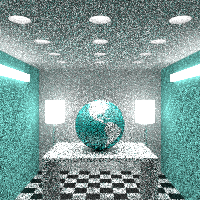
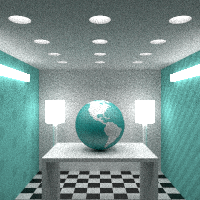
tiffany: use bidirectional path tracing
This example has so much less variance with bidirectional path tracing.
I'm guessing the inset lights were a huge source of variance before.

diff --git a/examples/renderings/tiffany/lights.go b/examples/renderings/tiffany/lights.go
@@ -2,6 +2,7 @@ package main
 
 import (
 	"math"
+	"math/rand"
 
 	"github.com/unixpickle/model3d/model3d"
 	"github.com/unixpickle/model3d/render3d"
@@ -16,10 +17,18 @@ const (
 	WallLightBrightness = 5.0
 )
 
-func CreateLamp() render3d.Object {
-	var res render3d.JoinedObject
+func CreateLamp() render3d.AreaLight {
+	var lights []render3d.AreaLight
 	for _, x := range []float64{-4, 4} {
-		res = append(res,
+		light := render3d.NewCylinderAreaLight(&model3d.Cylinder{
+			P1:     model3d.Coord3D{X: x, Y: 6, Z: 0},
+			P2:     model3d.Coord3D{X: x, Y: 6, Z: 2},
+			Radius: 0.8,
+		}, render3d.NewColor(LampBrightness))
+
+		fullLamp := render3d.JoinedObject{
+			light,
+
 			// Base
 			&render3d.ColliderObject{
 				Collider: &model3d.Cylinder{
@@ -33,6 +42,7 @@ func CreateLamp() render3d.Object {
 					DiffuseColor:  render3d.NewColor(0.5),
 				},
 			},
+
 			// Pole
 			&render3d.ColliderObject{
 				Collider: &model3d.Cylinder{
@@ -46,23 +56,16 @@ func CreateLamp() render3d.Object {
 					DiffuseColor:  render3d.NewColor(0.5),
 				},
 			},
-			// Shade
-			&render3d.ColliderObject{
-				Collider: &model3d.Cylinder{
-					P1:     model3d.Coord3D{X: x, Y: 6, Z: 0},
-					P2:     model3d.Coord3D{X: x, Y: 6, Z: 2},
-					Radius: 0.8,
-				},
-				Material: &render3d.LambertMaterial{
-					EmissionColor: render3d.Color{X: 1, Y: 1, Z: 1}.Scale(LampBrightness),
-				},
-			},
-		)
+		}
+		lights = append(lights, &lightedObject{
+			AreaLight: light,
+			Object:    fullLamp,
+		})
 	}
-	return res
+	return render3d.JoinAreaLights(lights...)
 }
 
-func CreateWallLights() render3d.Object {
+func CreateWallLights() render3d.AreaLight {
 	mesh := model3d.NewMesh()
 	mesh.AddMesh(model3d.NewMeshRect(
 		model3d.Coord3D{X: -6, Y: -4, Z: 3.5},
@@ -72,16 +75,36 @@ func CreateWallLights() render3d.Object {
 		model3d.Coord3D{X: 5.6, Y: -4, Z: 3.5},
 		model3d.Coord3D{X: 6, Y: 4, Z: 4},
 	))
-	return &render3d.ColliderObject{
-		Collider: model3d.MeshToCollider(mesh),
-		Material: &render3d.LambertMaterial{
-			EmissionColor: render3d.Color{X: 1, Y: 1, Z: 1}.Scale(WallLightBrightness),
-		},
-	}
+	return render3d.NewMeshAreaLight(mesh, render3d.NewColor(WallLightBrightness))
 }
 
 type CeilingLight struct {
 	Cylinder *model3d.Cylinder
+}
+
+func CreateCeilingLights() []*CeilingLight {
+	var lights []*CeilingLight
+	for x := -3; x <= 3; x += 3 {
+		for y := -5; y <= 4; y += 3 {
+			lights = append(lights, &CeilingLight{
+				Cylinder: &model3d.Cylinder{
+					P1: model3d.Coord3D{X: float64(x), Y: float64(y), Z: RoomHeight},
+					P2: model3d.Coord3D{X: float64(x), Y: float64(y),
+						Z: RoomHeight + CeilingLightDepth},
+					Radius: CeilingLightRadius,
+				},
+			})
+		}
+	}
+	return lights
+}
+
+func (c *CeilingLight) Min() model3d.Coord3D {
+	return c.Cylinder.Min()
+}
+
+func (c *CeilingLight) Max() model3d.Coord3D {
+	return c.Cylinder.Max()
 }
 
 func (c *CeilingLight) Cast(r *model3d.Ray) (model3d.RayCollision, render3d.Material, bool) {
@@ -102,16 +125,38 @@ func (c *CeilingLight) Cast(r *model3d.Ray) (model3d.RayCollision, render3d.Mate
 	}
 	coll.Normal = coll.Normal.Scale(-1)
 	mat := &render3d.LambertMaterial{
-		DiffuseColor: render3d.Color{X: 1, Y: 1, Z: 1}.Scale(0.025),
+		DiffuseColor: render3d.NewColor(0.025),
 	}
 	if coll.Normal.Z < -0.5 {
-		mat.EmissionColor = render3d.Color{X: 1, Y: 1, Z: 1}.Scale(CeilingLightBrightness)
+		mat.EmissionColor = render3d.NewColor(CeilingLightBrightness)
 	}
 	return coll, mat, found
+}
+
+func (c *CeilingLight) SampleLight(gen *rand.Rand) (p, n model3d.Coord3D, e render3d.Color) {
+	theta := gen.Float64() * math.Pi * 2
+	dir := model3d.Coord3D{X: math.Cos(theta), Y: math.Sin(theta)}
+	coord := c.Cylinder.P2.Add(dir.Scale(c.Cylinder.Radius))
+	return coord, model3d.Coord3D{Z: -1}, render3d.NewColor(CeilingLightBrightness)
+}
+
+func (c *CeilingLight) TotalEmission() float64 {
+	return 3 * CeilingLightBrightness * math.Pi * math.Pow(c.Cylinder.Radius, 2)
 }
 
 func (c *CeilingLight) Cut(r *model3d.Ray, rc model3d.RayCollision) bool {
 	p := r.Origin.Add(r.Direction.Scale(rc.Scale))
 	return math.Abs(p.Z-c.Cylinder.P1.Z) < 1e-8 &&
 		p.Dist(c.Cylinder.P1) < c.Cylinder.Radius
+}
+
+// lightedObject is an object with some part that emits
+// light.
+type lightedObject struct {
+	render3d.AreaLight
+	Object render3d.Object
+}
+
+func (l *lightedObject) Cast(r *model3d.Ray) (model3d.RayCollision, render3d.Material, bool) {
+	return l.Object.Cast(r)
 }

diff --git a/examples/renderings/tiffany/main.go b/examples/renderings/tiffany/main.go
@@ -8,25 +8,58 @@ import (
 	"github.com/unixpickle/model3d/render3d"
 )
 
+// ErrorMargin controls the amount of allowed noise in an
+// HD rendering of the scene.
+const ErrorMargin = 0.01
+
 func main() {
+	ceilingLights := CreateCeilingLights()
+	lamp := CreateLamp()
+	wallLights := CreateWallLights()
+
 	scene := render3d.JoinedObject{
 		NewGlobe(),
-		NewWalls(),
+		NewWalls(ceilingLights),
 		CreateTable(),
-		CreateLamp(),
-		CreateWallLights(),
+		lamp,
+		wallLights,
 	}
 
-	renderer := render3d.RecursiveRayTracer{
+	allLights := make([]render3d.AreaLight, 0, len(ceilingLights)+2)
+	for _, x := range ceilingLights {
+		allLights = append(allLights, x)
+	}
+	allLights = append(allLights, lamp, wallLights)
+
+	renderer := render3d.BidirPathTracer{
 		Camera: render3d.NewCameraAt(model3d.Coord3D{Y: -13, Z: 2},
 			model3d.Coord3D{Y: 0, Z: 2}, math.Pi/3.6),
+		Light: render3d.JoinAreaLights(allLights...),
 
-		MaxDepth: 5,
+		MaxDepth: 15,
+		MinDepth: 3,
 
-		NumSamples:           200,
-		MinSamples:           200,
-		MaxStddev:            0.05,
-		OversaturatedStddevs: 3,
+		NumSamples: 200,
+		MinSamples: 200,
+
+		// Gamma-aware convergence criterion.
+		Convergence: func(mean, stddev render3d.Color) bool {
+			stddevs := stddev.Array()
+			for i, m := range mean.Array() {
+				s := stddevs[i]
+				if m-3*s > 1 {
+					// Oversaturated, so even if the variance
+					// is high, this region is stable.
+					continue
+				}
+				if math.Pow(m+s, 1/2.2)-math.Pow(m, 1/2.2) > ErrorMargin {
+					return false
+				}
+			}
+			return true
+		},
+
+		RouletteDelta: 0.2,
 
 		Antialias: 1.0,
 		Cutoff:    1e-4,
@@ -34,17 +67,6 @@ func main() {
 		LogFunc: func(p, samples float64) {
 			fmt.Printf("\rRendering %.1f%%...", p*100)
 		},
-	}
-
-	ceilingLights := NewWalls().Lights
-	for _, l := range ceilingLights {
-		point := l.Cylinder.P1
-		renderer.FocusPoints = append(renderer.FocusPoints, &render3d.PhongFocusPoint{
-			Alpha:  50,
-			Target: point,
-		})
-		renderer.FocusPointProbs = append(renderer.FocusPointProbs,
-			0.3/float64(len(ceilingLights)))
 	}
 
 	fmt.Println("Ray variance:", renderer.RayVariance(scene, 200, 200, 5))

diff --git a/examples/renderings/tiffany/walls.go b/examples/renderings/tiffany/walls.go
@@ -7,6 +7,8 @@ import (
 	"github.com/unixpickle/model3d/render3d"
 )
 
+const RoomHeight = 5
+
 var TiffanyBlue = render3d.NewColorRGB(129.0/255.0, 216.0/255.0, 208.0/255.0)
 
 type Walls struct {
@@ -14,26 +16,12 @@ type Walls struct {
 	Lights []*CeilingLight
 }
 
-func NewWalls() *Walls {
+func NewWalls(lights []*CeilingLight) *Walls {
 	mesh := model3d.NewMeshRect(model3d.Coord3D{X: -6, Y: -15, Z: -5},
-		model3d.Coord3D{X: 6, Y: 8, Z: 5})
+		model3d.Coord3D{X: 6, Y: 8, Z: RoomHeight})
 
 	// Face normals inward.
 	mesh = mesh.MapCoords(model3d.Coord3D{X: -1, Y: 1, Z: 1}.Mul)
-
-	var lights []*CeilingLight
-	for x := -3; x <= 3; x += 3 {
-		for y := -5; y <= 4; y += 3 {
-			lights = append(lights, &CeilingLight{
-				Cylinder: &model3d.Cylinder{
-					P1: model3d.Coord3D{X: float64(x), Y: float64(y), Z: mesh.Max().Z},
-					P2: model3d.Coord3D{X: float64(x), Y: float64(y),
-						Z: mesh.Max().Z + CeilingLightDepth},
-					Radius: CeilingLightRadius,
-				},
-			})
-		}
-	}
 
 	return &Walls{
 		Base: &render3d.ColliderObject{

diff --git a/examples/renderings/tiffany/README.md b/examples/renderings/tiffany/README.md
@@ -1,21 +1,20 @@
 # tiffany
 
-This rendering example creates textured objects with Tiffany Blue coloration. It shows how one might render:
+This rendering example creates textured objects with Tiffany Blue coloration. It uses [bidirectional path tracing](https://en.wikipedia.org/wiki/Path_tracing#Bidirectional_path_tracing) to greatly reduce variance (versus standard path tracing). It shows how one might render:
 
  * Inset ceiling lights
  * Area lights
  * Textures - both hard-coded and image-based
 
-By default, this demo outputs a grainy low-resolution rendering (which takes a minute or two):
+By default, this demo outputs a grainy, low-resolution rendering (which takes a minute or two):
 
 ![Low-res rendering](output.png)
 
 Raising the quality and resolution is as simple as modifying these lines:
 
 ```go
-NumSamples:           200,
-MinSamples:           200,
-MaxStddev:            0.05,
+NumSamples: 200,
+MinSamples: 200,
 ```
 
 and this line:
@@ -24,6 +23,6 @@ and this line:
 img := render3d.NewImage(200, 200)
 ```
 
-Simply increase NumSamples to maybe `100000`, increase MinSamples to `10000`, decrease `MaxStddev` to something like `0.02` (lower values mean less noise), and increase the resolution from 200x200 to whatever you want. Here's an example HD rendering at 800x800:
+Simply increase `NumSamples` to maybe `100000`, increase MinSamples to `1000`, and increase the resolution from 200x200 to whatever you want. Here's an example HD rendering at 800x800:
 
 ![High-resolution rendering](output_hd.png)
